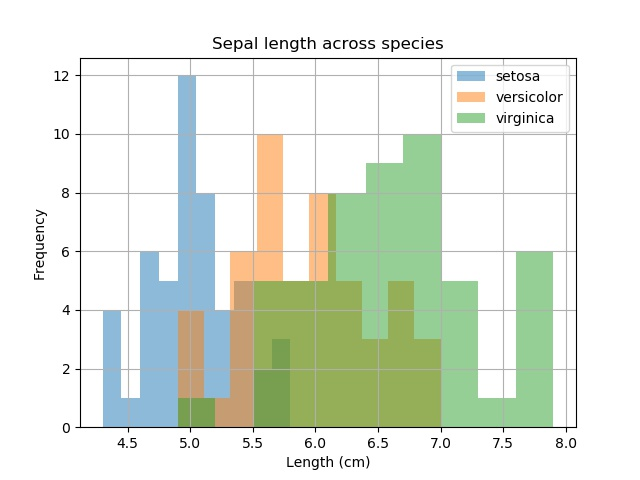
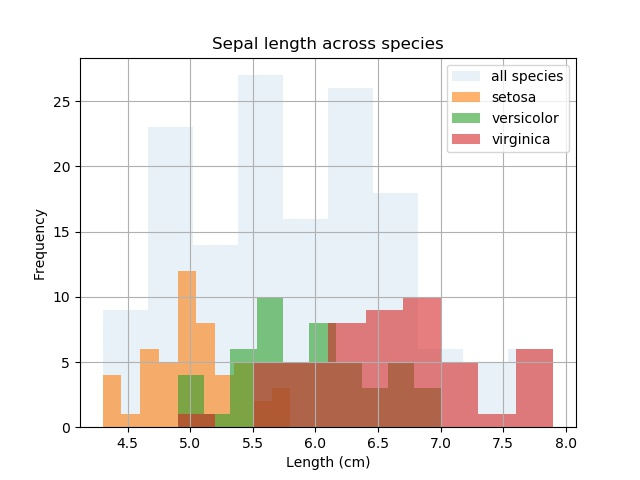
update figures

diff --git a/fishers_iris_data.py b/fishers_iris_data.py
@@ -51,7 +51,9 @@ table2 = byspecies.describe()
 print(table2)
 table2.to_csv('tables/table2.csv')
 
-# Originally tried the below but a bug in histogram generation means that you can't use groupby to automatically assign the legend.
+# Create histograms of features grouped by species. Histograms illustrate the distribution of each feature attributes per species. This aids the identification of the differences, or lack thereof, between species per feature. When exploring differences between classes, I think unstacked histograms per class plotted with the entire distribution in the background more ameniable to interpretation than stacked histograms.
+
+# Originally I tried the below but a bug in histogram generation with matplotlib means that you can't use groupby to automatically assign the labels in the legend.
 # Plot histograms of each variable and colour by species
 # data.groupby("species").sepalLength.hist(alpha=0.5)
 # plt.xlabel('Width (cm)')
@@ -61,26 +63,27 @@ table2.to_csv('tables/table2.csv')
 # plt.show()
 # plt.savefig('figures/fig1.jpg')
 
-# Only straightforward solution is to split data into groups by species for plotting on histograms 
+# Only straightforward solution is to split data by species for plotting on histograms 
 
 setosa = data[data['species'] == 'Iris-setosa']
 versicolor = data[data['species'] == 'Iris-versicolor']
 virginica = data[data['species'] == 'Iris-virginica']
 
-# Histogram of sepal length across species
-
-setosa.sepalLength.hist(alpha=0.5, label='setosa')
-versicolor.sepalLength.hist(alpha=0.5, label='versicolor')
-virginica.sepalLength.hist(alpha=0.5, label='virginica')
+# Fig.1 Histogram of sepal length across species. 
+data.sepalLength.hist(alpha=0.1, label='all species') # alpha = transparency
+setosa.sepalLength.hist(alpha=0.6, label='setosa')
+versicolor.sepalLength.hist(alpha=0.6, label='versicolor')
+virginica.sepalLength.hist(alpha=0.6, label='virginica')
 plt.xlabel('Length (cm)')
 plt.ylabel('Frequency')
 plt.title('Sepal length across species')
 plt.legend()
 plt.savefig('figures/fig1.jpg')
 
-# use seaborn
+# Use seaborn visualisation library to produce a pairplot. It will produce a stacked histograms of each numerical feature and scatterplots of features, coloured according Iris species.  Scatterplots will identify any potential correlations between features and if these relationships are species-specific.
 
 import seaborn as sns
 
-sns.pairplot(data, hue='species', size=2)
-plt.show()
+fig5 = sns.pairplot(data, hue='species', size=2)
+fig5.fig.subplots_adjust(right = 0.8) # There was a bug in seaborn as the legend is rendered over the pairplot, not outside to the centre right. The below solution was posted here: https://stackoverflow.com/questions/37815774/seaborn-pairplot-legend-how-to-control-position
+plt.savefig('figures/fig5.jpg')
